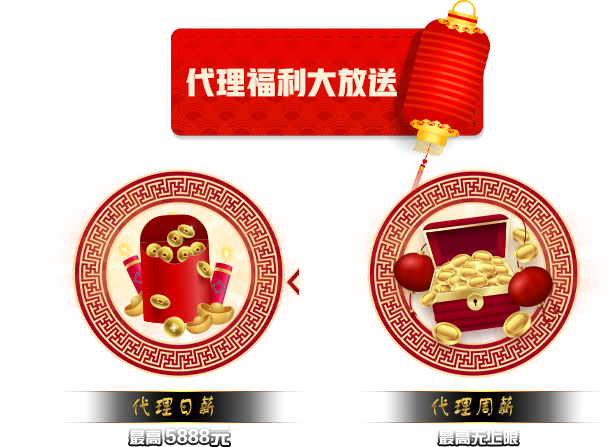
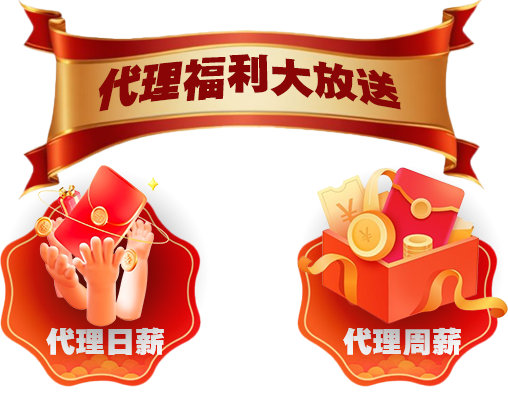
asd

diff --git a/assets/css/styles.css b/assets/css/styles.css
@@ -2,7 +2,7 @@ body {
     width: 650px;
 }
 body {
-    background-image: url('../Images/Background.png');
+    background-image: url('../Images/backgroundImage.png');
     background-repeat: no-repeat;
     background-position: center center;
     position: relative;
@@ -34,7 +34,10 @@ body {
     z-index: 5;
 }
 .top {
-    margin-top: 22px;
+    margin-top: 0;
+}
+.top img {
+    width: 70%;
 }
 
 .top .downBtn {
@@ -145,7 +148,7 @@ a.downloadButton:hover {
     margin-top: 30px;
 }
 .h5link .h5-btn .site1 {
-    margin-top: 0.6rem;
+    margin-top: 2.85rem;
 }
 .h5link .h5-btn .site1, .h5link .h5-btn .site2, .h5link .h5-btn .site3 {
     width: 100%;
@@ -160,7 +163,7 @@ a.downloadButton:hover {
     float: left;
     width: 100%;
     aspect-ratio: 74/9;
-    margin-left: 100px;
+    margin-left: 140px;
     font-size: 0.8rem;
     margin-top: 4px;
 }
@@ -201,13 +204,16 @@ a.downloadButton:hover {
     cursor: pointer;
     position: absolute;
     left: 27.5%;
-    bottom: 27.5%;
+    bottom: 25.5%;
     width: 45%;
+}
+.uni-agent {
+    margin-top: 100px;
 }
 
 .uni-agent .agent-img img {
-    margin-top: 30px;
-    margin-bottom: 30px;
+    margin-top: 10px;
+    margin-bottom: 10px;
 }
 
 .main-footer {

diff --git a/index.html b/index.html
@@ -22,7 +22,7 @@
             <img src="./assets/Images/Header_Banner.png" alt="">
             <div class="downBtn">
                 <a class="downloadButton"> 
-                    <a href="https://supkb.wangkx3.cn/api/c/pjqf7eg1"><img src="./assets/Images/Download_Button_Img2.png" alt="Download APP">
+                    <a href="https://supkb.wangkx3.cn/api/c/pjqf7eg1"><img src="./assets/Images/Download_Button_Img2a.png" alt="Download APP">
                 </a>
             </div>
         </div>
